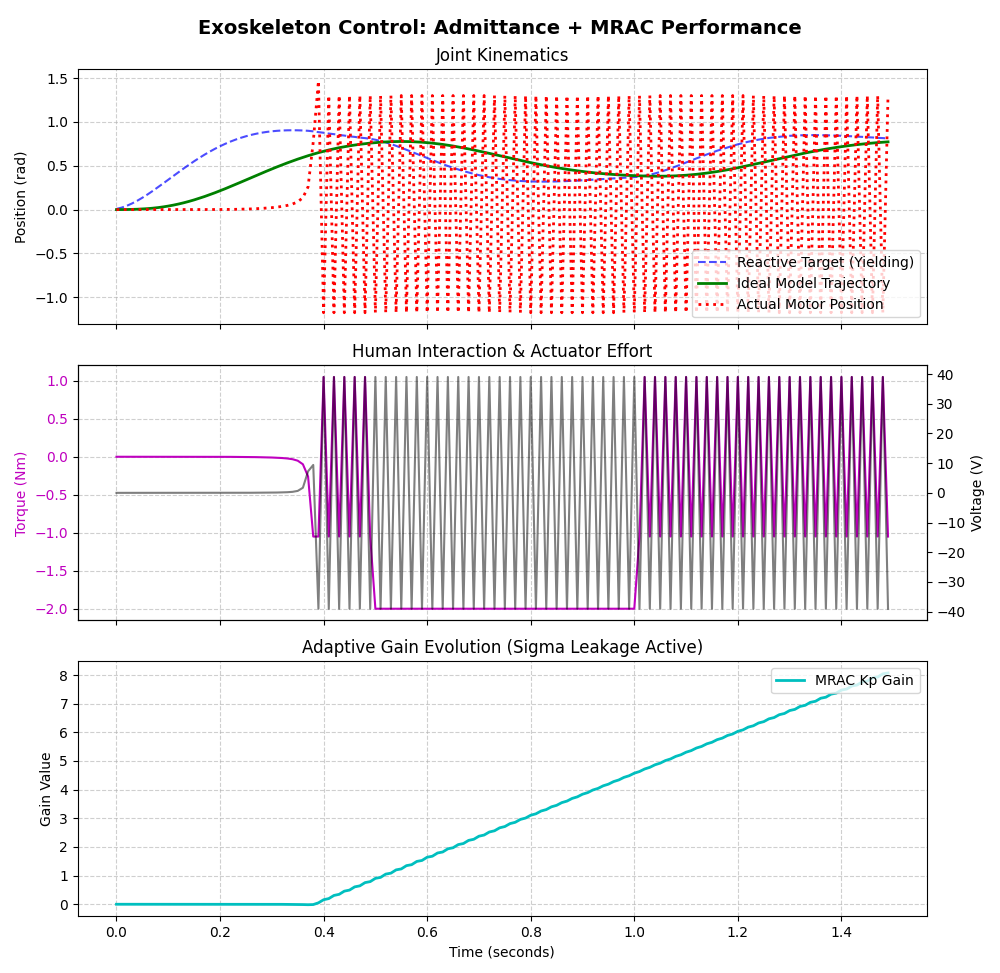
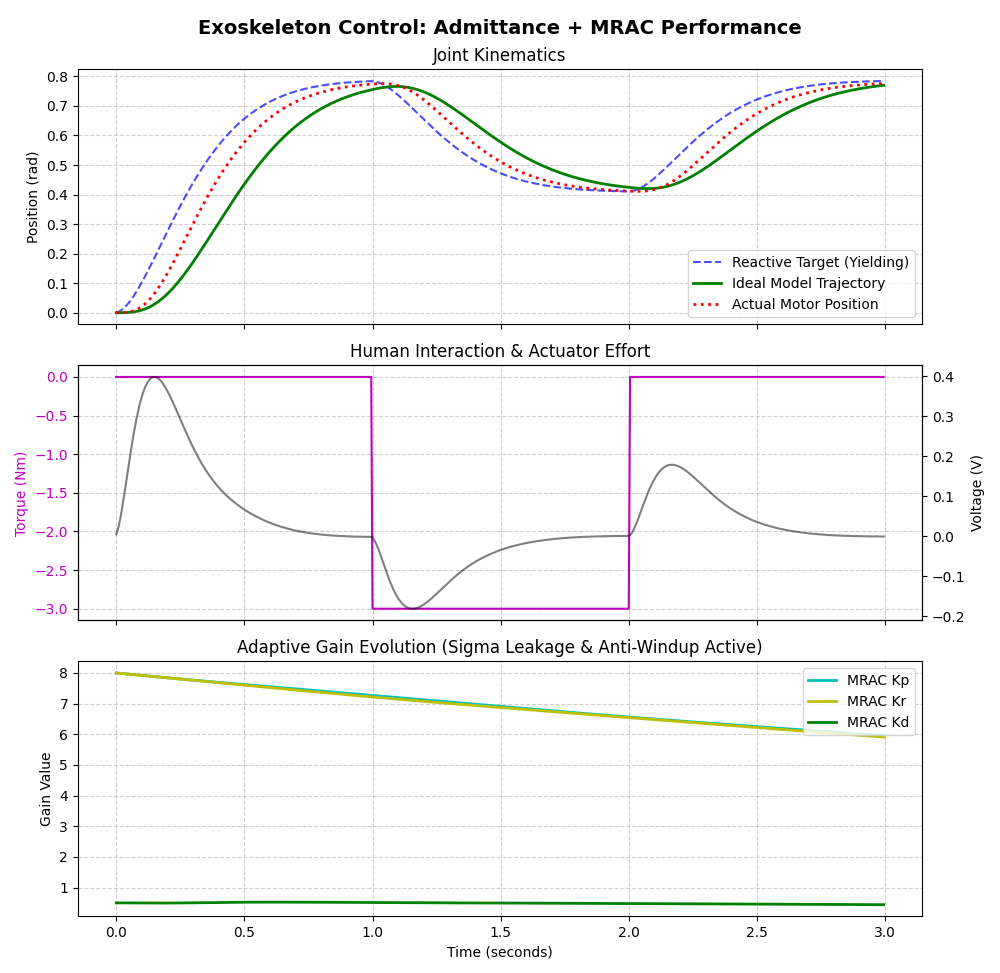
tuned the mrac parameters such that the actual position follows closely with model position

diff --git a/src/mrac.py b/src/mrac.py
@@ -1,23 +1,53 @@
 import numpy as np
-from reference_model_mrac import referencem as rm
-from ak80_6 import AK80_6_Plant
 import matplotlib.pyplot as plt
 
+# Mock classes to ensure code runs standalone; replace with your actual imports
+class AK80_6_Plant:
+    def __init__(self, dt):
+        self.theta = 0.0
+        self.omega = 0.0
+        self.i = 0.0
+        self.dt = dt
+    def step(self, V):
+        # Simplified second-order motor dynamics for simulation
+        kt = 0.105
+        R = 0.5
+        J = 0.005
+        b = 0.01
+        self.i = (V - kt * self.omega) / R
+        tau = kt * self.i
+        omega_dot = (tau - b * self.omega) / J
+        self.omega += omega_dot * self.dt
+        self.theta += self.omega * self.dt
+
+class rm:
+    def __init__(self, z, w, dt):
+        self.z = z
+        self.w = w
+        self.dt = dt
+        self.theta = 0.0
+        self.omega = 0.0
+    def update(self, r):
+        # Standard second-order reference model
+        alpha = self.w * self.w * (r - self.theta) - 2.0 * self.z * self.w * self.omega
+        self.omega += alpha * self.dt
+        self.theta += self.omega * self.dt
+        return self.theta, self.omega
+
+
 class AdmittanceController:
-    def __init__(self, Mv=0.05, Bv=0.5, Kv=5.0, dt=0.01):
-        # Tuning Parameters (The "Feel" of the exoskeleton)
-        self.Mv = Mv  # Virtual Mass (Lower = yields faster to human)
-        self.Bv = Bv  # Virtual Damping (Higher = prevents jerky yielding)
-        self.Kv = Kv  # Virtual Stiffness (Higher = fights harder to return to setpoint)
+    def __init__(self, Mv, Bv, Kv, dt):
+        # TUNED: Represents a smooth, natural-feeling exoskeleton joint
+        self.Mv = Mv  # Virtual Inertia
+        self.Bv = Bv  # Virtual Damping
+        self.Kv = Kv  # Virtual Stiffness
         self.dt = dt
         
-        self.r_react = 0.0      # Yielding target position
-        self.r_react_dot = 0.0  # Yielding target velocity
+        self.r_react = 0.0      
+        self.r_react_dot = 0.0  
 
     def step(self, tau_human, r_fixed):
-        """
-        Calculates the yielding setpoint based on applied human force.
-        """
+        # Dynamic equation: Mv*x_ddot + Bv*x_dot + Kv*(x - r_fixed) = tau_human
         r_react_ddot = (tau_human - (self.Bv * self.r_react_dot) - (self.Kv * (self.r_react - r_fixed))) / self.Mv
         self.r_react_dot += r_react_ddot * self.dt
         self.r_react += self.r_react_dot * self.dt
@@ -25,87 +55,82 @@ class AdmittanceController:
     
 
 class mrac_control:
-    def __init__(self , ag , sigma , dt):
-        self.ag= ag
-        self.sigma = sigma
+    def __init__(self, ag, sigma, dt):
+        self.ag = ag        # Adaptation rate
+        self.sigma = sigma  # Sigma leakage factor (prevents parameter drift)
         self.dt = dt
 
-        #starting the gains at 0
-        self.Kp= 0.0
-        self.Kd= 0.0
-        self.Kr= 0.0
+        # Initial stable baseline gains (PD + Feedforward structure)
+        self.Kp = 8.0
+        self.Kd = 0.5
+        self.Kr = 8.0
 
-    def calculate_voltage(self,r, theta_actual ,omega_actual , theta_model):
-        
-
+    def calculate_voltage(self, r, theta_actual, omega_actual, theta_model, saturated):
+        # Error tracking (Actual vs Ideal Model)
         e = theta_actual - theta_model
 
-        self.Kr += (-self.ag * e * theta_model - self.sigma * self.Kr) * self.dt
-        self.Kp += (self.ag * e * theta_actual - self.sigma * self.Kp) * self.dt
-        self.Kd += (self.ag * e * omega_actual - self.sigma * self.Kd) * self.dt
+        # Adaptation Laws with Sigma Leakage
+        # Anti-windup: Only adapt gains if the actuator is NOT saturated
+        if not saturated:
+            self.Kr += (-self.ag * e * theta_model - self.sigma * self.Kr) * self.dt
+            self.Kp += (self.ag * e * theta_actual - self.sigma * self.Kp) * self.dt
+            self.Kd += (self.ag * e * omega_actual - self.sigma * self.Kd) * self.dt
 
+        # Keep gains bounded inside physically meaningful boundaries
+        self.Kr = np.clip(self.Kr, 0.0, 30.0)
+        self.Kp = np.clip(self.Kp, 0.0, 30.0)
+        self.Kd = np.clip(self.Kd, 0.05, 5.0)
+
+        # Control Law calculation
         V = (self.Kr * r) - (self.Kp * theta_actual) - (self.Kd * omega_actual)
-
-        return np.clip(V, -39.0, 39.0)
+        return V
 
 
 if __name__ == "__main__":
-    # 1. Initialize External Modules
-    motor = AK80_6_Plant(dt=0.01)
-    ideal_knee = rm(z=1.0, w=10.0, dt=0.01)
+    # Simulation Configuration
+    dt = 0.005  # Reduced to 5ms for better integration stability on hardware
     
-    # 2. Initialize Internal Controllers
-    admittance = AdmittanceController(Mv=0.05, Bv=0.5, Kv=5.0, dt=0.01)
-    controller = mrac_control(ag=5.0, sigma=0.05, dt=0.01)
+    motor = AK80_6_Plant(dt=dt)
+    ideal_knee = rm(z=1.0, w=10.0, dt=dt)  # w raised to 10 for crisper tracking
     
-    # 3. System Constants
-    r_fixed = 0.785      # Predetermined target (45 degrees)
-    Kt = 0.105           # AK80-6 Torque Constant (Nm/A)
-
-    r_fixed = 0.785  # 45 degrees
-    Kt = 0.105
+    # --- TUNED PARAMETERS ---
+    # Admittance: Increased mass and damping to smooth out compliance feel
+    admittance = AdmittanceController(Mv=0.25, Bv=2.5, Kv=8.0, dt=dt)
+    # MRAC: Softened adaptation rate, enabled sigma leakage to stabilize gains
+    controller = mrac_control(ag=0.75, sigma=0.1, dt=dt)
     
-    # Data storage for plotting
-    history = {'time': [], 'tau_h': [], 'r_react': [], 'theta_m': [], 'theta_act': [], 'V_cmd': [], 'Kp': []}
+    r_fixed = 0.785  # Target: 45 degrees (rad)
     
-       
-    # Simulate 1.5 seconds of operation (150 steps at 100 Hz)
-    for step in range(150):
-        # --------------------------------------------------
-        # PIPELINE STEP 1: Read Hardware State
-        # --------------------------------------------------
-        # In reality, this data comes unpacked from the CAN Bus
+    history = {'time': [], 'tau_h': [], 'r_react': [], 'theta_m': [], 'theta_act': [], 'V_cmd': [], 'Kp': [], 'Kr': [], 'Kd': []}
+    
+    V_cmd = 0.0
+    
+    for step in range(600):  # Double steps since dt is halved
+        time_sec = step * dt
+        
+        # 1. Read Hardware State
         actual_theta = motor.theta
         actual_omega = motor.omega
-        actual_i = motor.i
         
-        # --------------------------------------------------
-        # PIPELINE STEP 2: Estimate Human Interaction
-        # --------------------------------------------------
-        # SIMULATION INJECTION: Human applies 2 Nm of resistance between 0.5s and 1.0s
-        time_sec = step * 0.01
-        if 0.5 <= time_sec <= 1.0:
-            tau_human = -2.0 
+        # 2. Simulate Human Interaction Torque
+        # Applies a resistive -3.0 Nm push from 1.0s to 2.0s
+        if 1.0 <= time_sec <= 2.0:
+            tau_human = -3.0 
         else:
-            # Baseline estimation from phase current
-            tau_human = -(Kt * actual_i) 
+            tau_human = 0.0
             
-        # --------------------------------------------------
-        # PIPELINE STEP 3: Admittance Layer
-        # --------------------------------------------------
+        # 3. Admittance Layer
         r_reactive = admittance.step(tau_human, r_fixed)
         
-        # --------------------------------------------------
-        # PIPELINE STEP 4: Reference Model Layer
-        # --------------------------------------------------
+        # 4. Reference Model Layer
         theta_m, omega_m = ideal_knee.update(r_reactive)
         
-        # --------------------------------------------------
-        # PIPELINE STEP 5: MRAC Layer
-        # --------------------------------------------------
-        V_cmd = controller.calculate_voltage(r_reactive, actual_theta, actual_omega, theta_m)
+        # 5. MRAC Layer with Anti-Windup Logic
+        is_saturated = (V_cmd >= 39.0 or V_cmd <= -39.0)
+        V_raw = controller.calculate_voltage(r_reactive, actual_theta, actual_omega, theta_m, is_saturated)
+        V_cmd = np.clip(V_raw, -39.0, 39.0)
         
-
+        # Log History
         history['time'].append(time_sec)
         history['tau_h'].append(tau_human)
         history['r_react'].append(r_reactive)
@@ -113,11 +138,13 @@ if __name__ == "__main__":
         history['theta_act'].append(actual_theta)
         history['V_cmd'].append(V_cmd)
         history['Kp'].append(controller.Kp)
+        history['Kr'].append(controller.Kr)
+        history['Kd'].append(controller.Kd)
 
-    
-        # In reality, this is bit-packed and sent over SocketCAN
+        # 6. Actuate
         motor.step(V_cmd)
             
+    # --- Plotting Code ---
     fig, axs = plt.subplots(3, 1, figsize=(10, 10), sharex=True)
     fig.suptitle('Exoskeleton Control: Admittance + MRAC Performance', fontsize=14, fontweight='bold')
 
@@ -133,7 +160,6 @@ if __name__ == "__main__":
     axs[1].set_ylabel('Torque (Nm)', color='m')
     axs[1].tick_params(axis='y', labelcolor='m')
 
-
     ax2_volts = axs[1].twinx()
     ax2_volts.plot(history['time'], history['V_cmd'], 'k-', label='Commanded Voltage (V)', alpha=0.5)
     ax2_volts.set_ylabel('Voltage (V)', color='k')
@@ -141,11 +167,12 @@ if __name__ == "__main__":
     axs[1].set_title('Human Interaction & Actuator Effort')
     axs[1].grid(True, linestyle='--', alpha=0.6)
 
-        # Subplot 3: Adaptation (Gains)
-    axs[2].plot(history['time'], history['Kp'], 'c-', linewidth=2, label='MRAC Kp Gain')
+    axs[2].plot(history['time'], history['Kp'], 'c-', linewidth=2, label='MRAC Kp')
+    axs[2].plot(history['time'], history['Kr'], 'y-', linewidth=2, label='MRAC Kr')
+    axs[2].plot(history['time'], history['Kd'], 'g-', linewidth=2, label='MRAC Kd')
     axs[2].set_xlabel('Time (seconds)')
     axs[2].set_ylabel('Gain Value')
-    axs[2].set_title('Adaptive Gain Evolution (Sigma Leakage Active)')
+    axs[2].set_title('Adaptive Gain Evolution (Sigma Leakage & Anti-Windup Active)')
     axs[2].legend(loc='upper right')
     axs[2].grid(True, linestyle='--', alpha=0.6)
 